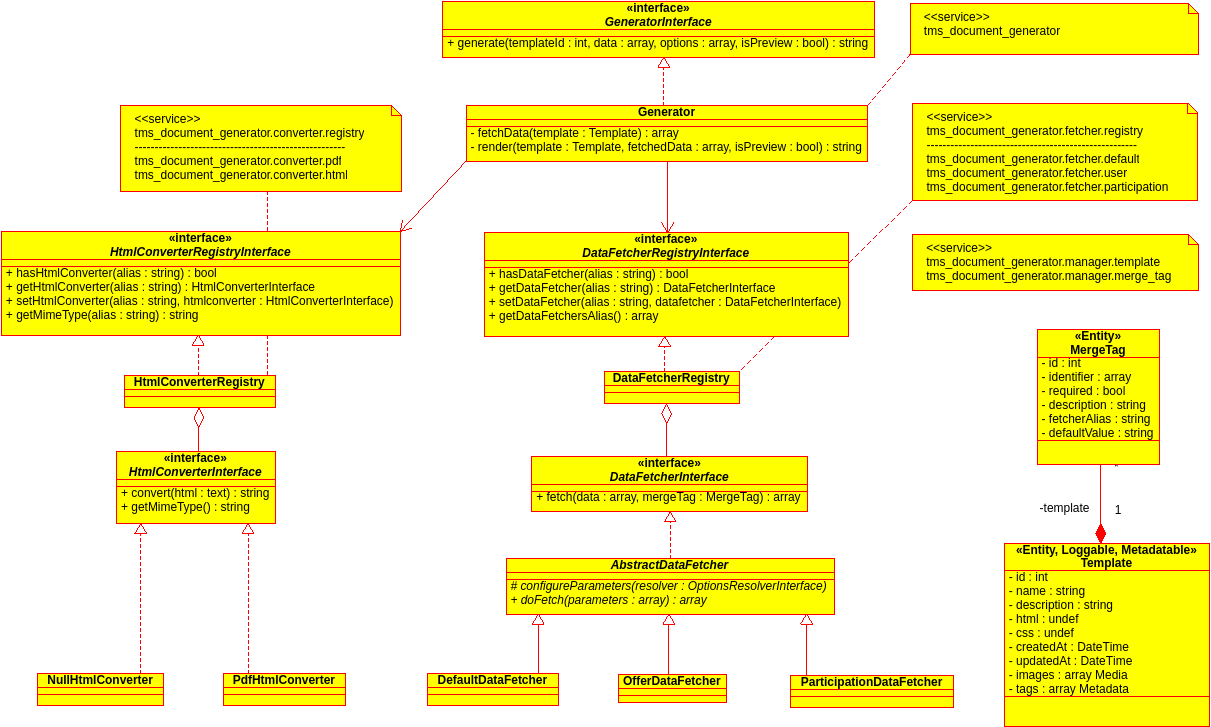
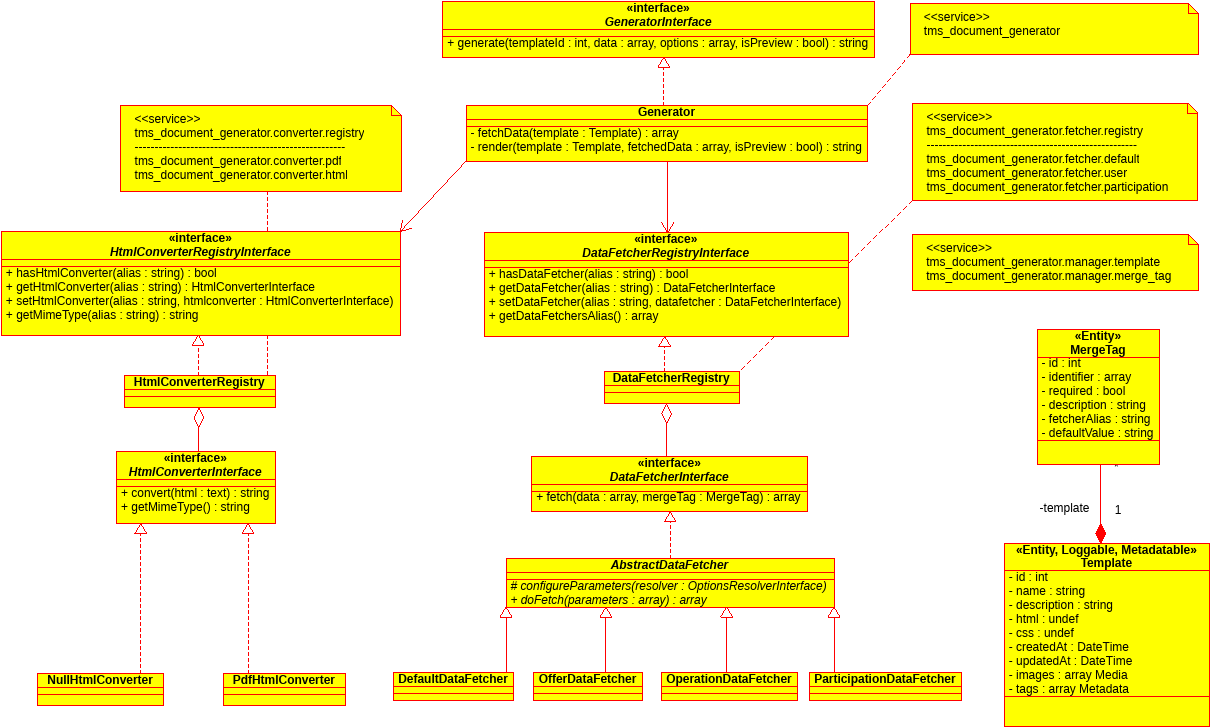
add operation data fetcher

Changed region(s): [[0.3055, 0.9078, 0.7944, 0.9986], [0.3972, 0.8171, 0.7027, 0.8473]]

diff --git a/DataFetcher/OperationDataFetcher.php b/DataFetcher/OperationDataFetcher.php
@@ -16,11 +16,11 @@ use Symfony\Component\HttpKernel\Exception\AccessDeniedHttpException;
 use Symfony\Component\HttpKernel\Exception\NotFoundHttpException;
 
 /**
- * Class OfferDataFetcher
+ * Class OperationDataFetcher
  *
  * @package Tms\Bundle\DocumentGeneratorBundle\DataFetcher
  */
-class OfferDataFetcher extends AbstractDataFetcher
+class OperationDataFetcher extends AbstractDataFetcher
 {
     /**
      * @var CrawlerInterface
@@ -50,7 +50,7 @@ class OfferDataFetcher extends AbstractDataFetcher
         try {
             $rawfetchedData = $this->crawler
                 ->go('operation')
-                ->findOne('offers', $parameters['reference'])
+                ->findOne('operations', $parameters['reference'])
                 ->getData();
         } catch (ApiHttpResponseException $e) {
             switch ($e->getHttpCode()) {

diff --git a/Resources/doc/data_fetcher.md b/Resources/doc/data_fetcher.md
@@ -3,6 +3,7 @@ Data Fetcher
 
 * [Default Fetcher](#default-fetcher)
 * [Offer Fetcher](#offer-fetcher)
+* [Operation Fetcher](#operation-fetcher)
 * [Participation Fetcher](#participation-fetcher)
 * [Achieve fetched data in template](#achieve-fetched-data-in-template)
 * [Default Value](#default-value)
@@ -195,6 +196,50 @@ which should return the value like:
         [createdAt] => 2015-04-09T17:09:12+0200
         [updatedAt] => 2015-04-09T17:09:12+0200
     )
+```
+
+operation Fetcher
+-----------------
+
+For one merge tag ``operation_1`` with fetcher alias ``operation``,
+When you post in the data ``operation_1`` or ``operation_1.reference``,
+the operation fetcher will use the value of reference to crawl the operation information from  TmsOperationManager.
+which should return the value like:
+```php
+Array
+(
+    [defaultImages] => Array
+        (
+            [0] => Array
+                (
+                    [public_uri] => //media-manager.digifid.fr/api/media/2005353137-1404208547-68c623a441e6100c41b7f954b98d9fe3-4607
+                    [mime_type] => image/png
+                    [provider_name] => tms_media_client.storage_provider.tms_media
+                    [provider_reference] => 2005353137-1404208547-68c623a441e6100c41b7f954b98d9fe3-4607
+                    [extension] => png
+                    [created_at] => 2014-07-01T11:55:47+0200
+                    [updated_at] => 2014-07-01T11:55:47+0200
+                )
+
+        )
+
+    [id] => 797
+    [reference] => msdata-18178
+    [customerReference] => 000051#18178#3913
+    [name] => ODR ACCESSOIRES HOME BY SFR
+    [startsAt] => 2015-04-10T00:00:00+0200
+    [endsAt] => 2015-04-27T00:00:00+0200
+    [images] => Array
+        (
+        )
+
+    [operationInsurances] => Array
+        (
+        )
+
+    [createdAt] => 2015-04-09T17:09:12+0200
+    [updatedAt] => 2015-04-09T17:09:12+0200
+)
 ```
 
 Participation Fetcher
